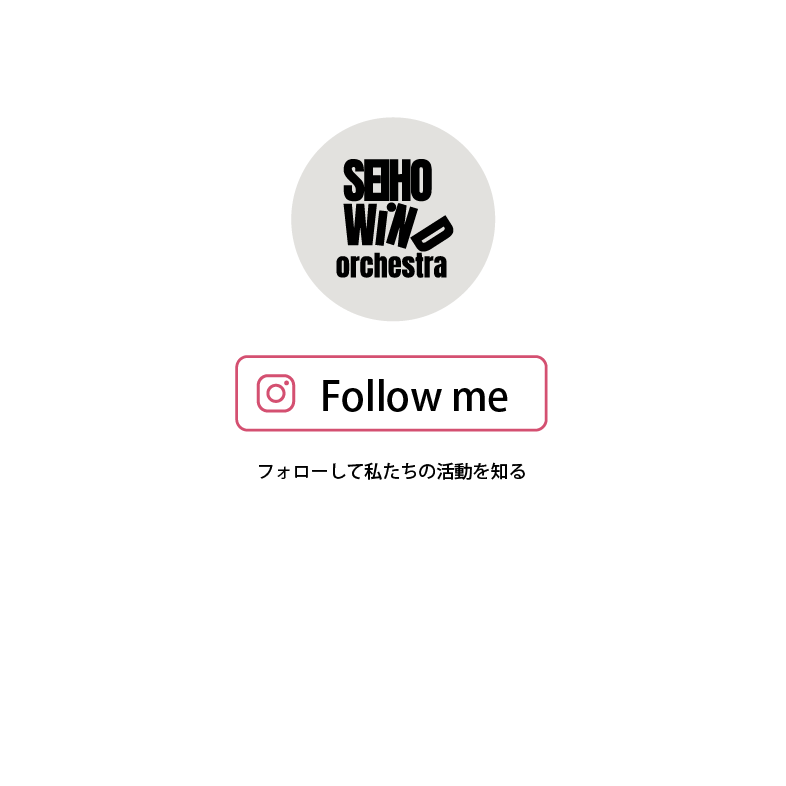
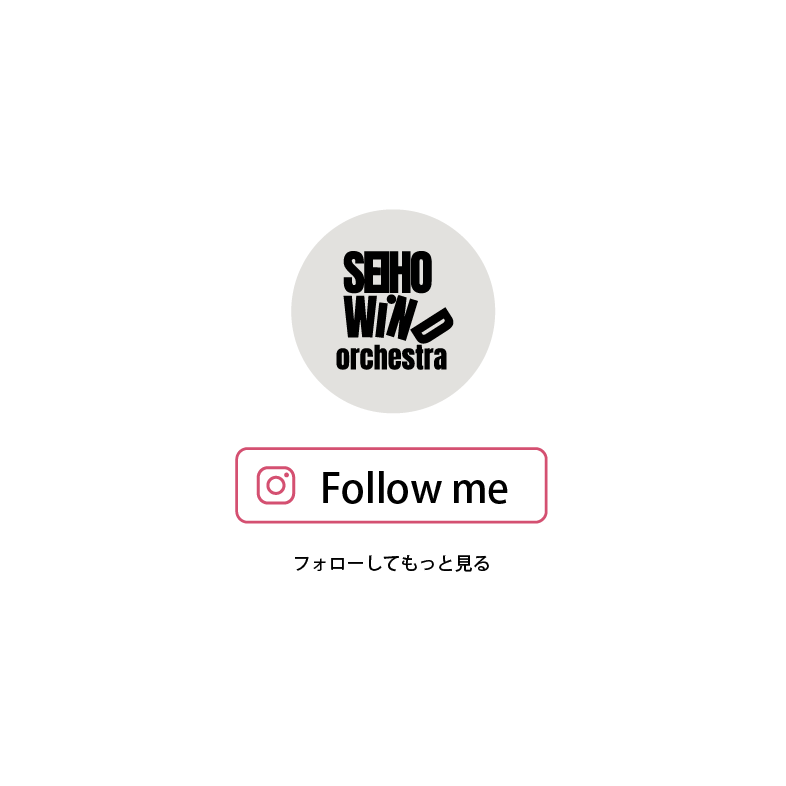
細かい変更

Changed region(s): [[0.2748, 0.1527, 0.7023, 0.6718], [0.3664, 0.7023, 0.6412, 0.7328]]

diff --git a/index.html b/index.html
@@ -191,7 +191,7 @@
         align-items: center;
         justify-content: center;
         font-size: 24px;
-        margin: 100px 0 50px 0;
+        margin: 100px 0 30px 0;
     }
 
     .cefnter p {
@@ -209,6 +209,7 @@
     .button {
         margin: auto;
         background: transparent;
+        width: 80vw;
         position: relative;
         padding: 5px 15px;
         display: flex;
@@ -217,7 +218,7 @@
         font-weight: 600;
         cursor: pointer;
         border: 1px solid black;
-        border-radius: 25px;
+        border-radius: 10px;
         outline: none;
         overflow: hidden;
         color: black;
@@ -227,33 +228,6 @@
 
     .button span {
         margin: 10px;
-    }
-
-    button::before {
-        position: absolute;
-        top: 0;
-        left: 0;
-        right: 0;
-        bottom: 0;
-        margin: auto;
-        content: "";
-        border-radius: 50%;
-        display: block;
-        width: 20em;
-        height: 20em;
-        left: -5em;
-        text-align: center;
-        transition: box-shadow 0.5s ease-out;
-        z-index: -1;
-    }
-
-    .button:hover {
-        color: #fff;
-        border: 1px solid black;
-    }
-
-    .button:hover::before {
-        box-shadow: inset 0 0 0 10em black;
     }
 
 
@@ -272,11 +246,11 @@
     }
 
     #activities-schedule-card {
-        background-color: #ffffff;
+        background-color: #F2D3AC;
     }
 
     #weekly-schedule-card {
-        background-color: #F2D3AC;
+        background-color: #ffffff;
     }
 
     .schedule-item {
@@ -353,7 +327,16 @@
 
     }
 
-    #tap-message {
+    #tap-message1 {
+        position: absolute;
+        bottom: 205px;
+        left: 10px;
+        width: 100%;
+        color: #ffffff;
+        font-size: 10px;
+    }
+
+    #tap-message2 {
         position: absolute;
         bottom: 50px;
         left: 0;
@@ -876,9 +859,6 @@
         flex-direction: column;
         text-align: center;
         margin: auto;
-        padding: 10vw;
-
-
 
     }
 
@@ -940,10 +920,43 @@
                             d="M8 0C5.829 0 5.556.01 4.703.048 3.85.088 3.269.222 2.76.42a3.917 3.917 0 0 0-1.417.923A3.927 3.927 0 0 0 .42 2.76C.222 3.268.087 3.85.048 4.7.01 5.555 0 5.827 0 8.001c0 2.172.01 2.444.048 3.297.04.852.174 1.433.372 1.942.205.526.478.972.923 1.417.444.445.89.719 1.416.923.51.198 1.09.333 1.942.372C5.555 15.99 5.827 16 8 16s2.444-.01 3.298-.048c.851-.04 1.434-.174 1.943-.372a3.916 3.916 0 0 0 1.416-.923c.445-.445.718-.891.923-1.417.197-.509.332-1.09.372-1.942C15.99 10.445 16 10.173 16 8s-.01-2.445-.048-3.299c-.04-.851-.175-1.433-.372-1.941a3.926 3.926 0 0 0-.923-1.417A3.911 3.911 0 0 0 13.24.42c-.51-.198-1.092-.333-1.943-.372C10.443.01 10.172 0 7.998 0h.003zm-.717 1.442h.718c2.136 0 2.389.007 3.232.046.78.035 1.204.166 1.486.275.373.145.64.319.92.599.28.28.453.546.598.92.11.281.24.705.275 1.485.039.843.047 1.096.047 3.231s-.008 2.389-.047 3.232c-.035.78-.166 1.203-.275 1.485a2.47 2.47 0 0 1-.599.919c-.28.28-.546.453-.92.598-.28.11-.704.24-1.485.276-.843.038-1.096.047-3.232.047s-2.39-.009-3.233-.047c-.78-.036-1.203-.166-1.485-.276a2.478 2.478 0 0 1-.92-.598 2.48 2.48 0 0 1-.6-.92c-.109-.281-.24-.705-.275-1.485-.038-.843-.046-1.096-.046-3.233 0-2.136.008-2.388.046-3.231.036-.78.166-1.204.276-1.486.145-.373.319-.64.599-.92.28-.28.546-.453.92-.598.282-.11.705-.24 1.485-.276.738-.034 1.024-.044 2.515-.045v.002zm4.988 1.328a.96.96 0 1 0 0 1.92.96.96 0 0 0 0-1.92zm-4.27 1.122a4.109 4.109 0 1 0 0 8.217 4.109 4.109 0 0 0 0-8.217zm0 1.441a2.667 2.667 0 1 1 0 5.334 2.667 2.667 0 0 1 0-5.334z">
                         </path>
                     </svg>
-                    <span>Instagram ☜</span>
+                    <span>公式Instagram</span>
                 </button>
             </div>
 
+
+            <div class="object" id="Weekly">
+                <h2>Weekly</h2>
+
+                <div class="schedule-card" id="weekly-schedule-card">
+                    <div class="schedule-item">
+                        <div class="month">月</div>
+                        <div class="description">理数科・普通科7限あり<br>4:30 ~ 6:30</div>
+                    </div>
+                    <div class="schedule-item">
+                        <div class="month">火</div>
+                        <div class="description">OFF</div>
+                    </div>
+                    <div class="schedule-item">
+                        <div class="month">水</div>
+                        <div class="description">3:30 ~ 5:30</div>
+                    </div>
+                    <div class="schedule-item">
+                        <div class="month">木</div>
+                        <div class="description">7限あり<br>4:30 ~ 6:30</div>
+                    </div>
+                    <div class="schedule-item">
+                        <div class="month">金</div>
+                        <div class="description">3:30 ~ 5:30</div>
+                    </div>
+                    <div class="schedule-item">
+                        <div class="month">土 日</div>
+                        <div class="description">どちらか<br>8:30 ~ 11:30</div>
+                    </div>
+
+                </div>
+
+            </div>
             <div class="object" id="Activities">
                 <h2>Activities</h2>
                 <div class="schedule-card" id="activities-schedule-card">
@@ -991,39 +1004,6 @@
                 </div>
             </div>
 
-            <div class="object" id="Weekly">
-                <h2>Weekly</h2>
-
-                <div class="schedule-card" id="weekly-schedule-card">
-                    <div class="schedule-item">
-                        <div class="month">月</div>
-                        <div class="description">理数科・普通科7限あり<br>4:30 ~ 6:30</div>
-                    </div>
-                    <div class="schedule-item">
-                        <div class="month">火</div>
-                        <div class="description">OFF</div>
-                    </div>
-                    <div class="schedule-item">
-                        <div class="month">水</div>
-                        <div class="description">3:30 ~ 5:30</div>
-                    </div>
-                    <div class="schedule-item">
-                        <div class="month">木</div>
-                        <div class="description">7限あり<br>4:30 ~ 6:30</div>
-                    </div>
-                    <div class="schedule-item">
-                        <div class="month">金</div>
-                        <div class="description">3:30 ~ 5:30</div>
-                    </div>
-                    <div class="schedule-item">
-                        <div class="month">土 日</div>
-                        <div class="description">どちらか<br>8:30 ~ 11:30</div>
-                    </div>
-
-                </div>
-
-            </div>
-
             <div class="object" id="Experience">
                 <h2>Experience</h2>
                 <p>部活動見学、体験</p>
@@ -1057,7 +1037,7 @@
                 <div class="slider-container">
                     <div class="card" style="background-color: #F2D3AC;">
                         <h3>アンサンブルコンテスト</h3>
-                        <p>2025 12 23<br>長野県アンサンブルコンテスト中信大会<br>菅打8重奏 銀賞<br>ヘンリー八世の音楽集</p>
+                        <p>2025 12 23<br>長野県アンサンブルコンテスト中信大会<br>ヘンリー八世の音楽集<br>菅打8重奏 銀賞</p>
 
                     </div>
                     <div class="card" style="background-color: #F2D3AC;">
@@ -1186,7 +1166,7 @@
                         </div>
                         <div id="form_OK_button">
                             <button class="enter" id="enter">送信</button>
-                            <button class="enter" id="close" onclick="form_close()">閉じる</button>
+                            <button class="enter" id="close" type="button" onclick="form_close()">閉じる</button>
                         </div>
 
                     </form>
@@ -1294,11 +1274,15 @@
 
[1 lines of base64/hex data omitted]
     const url = `https://graph.instagram.com/me/media?fields=id,caption,media_url,permalink,media_type,thumbnail_url&limit=5&access_token=${accessToken}`;
+    const profileUrl = `https://graph.instagram.com/me?fields=id,username,biography,account_type&access_token=${accessToken}`;
 
     async function fetchInstaFeed() {
         try {
             const response = await fetch(url);
             const data = await response.json();
+
+            const profileResponse = await fetch(profileUrl);
+            const profileData = await profileResponse.json();
 
             const container = document.getElementById('instagram-feed');
             const loadingText = document.getElementById('loading');
@@ -1348,7 +1332,8 @@
    
                         <a href="${post.permalink}" target="_blank" class="insta-link">
                             ${mediaHtml}
-                            <span id="tap-message">さらに表示</span>
+                            <span id="tap-message1">タップして投稿を開く</span>
+                            <span id="tap-message2">さらに表示</span>
                         </a>
                         <a href="${post.permalink}" target="_blank" class="insta-overlay">
                             <span> ${post.caption}</span>
@@ -1367,12 +1352,9 @@
                         <a href="https://www.instagram.com/shwo._.official/" target="_blank" class="insta-link">
                             <img src="insta-card-follow.png"
                                 alt="Instagram">
-                            <span id="tap-message">さらに表示</span>
                         </a>
-                        <a href="https://www.instagram.com/p/DVfp0a1k6Pb/" target="_blank" class="insta-overlay">
-                            <span>木曽青峰高校吹奏楽部(SHWO)の公式Instagramです！
-                                1年生6人、2年生2人の計8人で活動しています✨
-                                イベント情報など発信していきます💪🏻</span>
+                        <a href="https://www.instagram.com/shwo._.official/" target="_blank" class="insta-overlay">
+                            <span>${profileData.biography}</span>
                         </a>
                     </div>`
                 container.appendChild(item);
